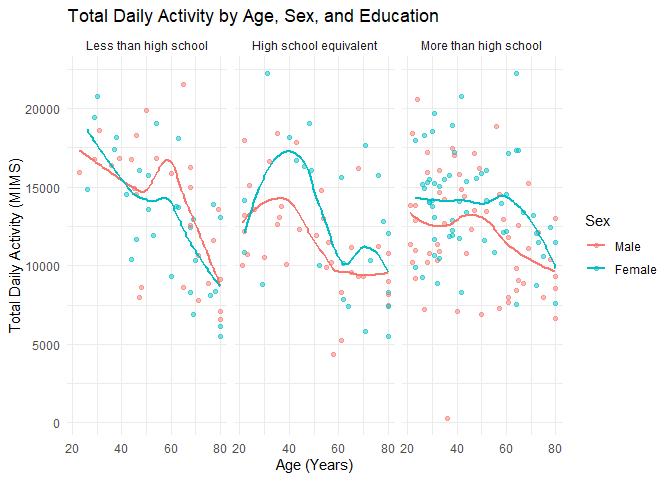
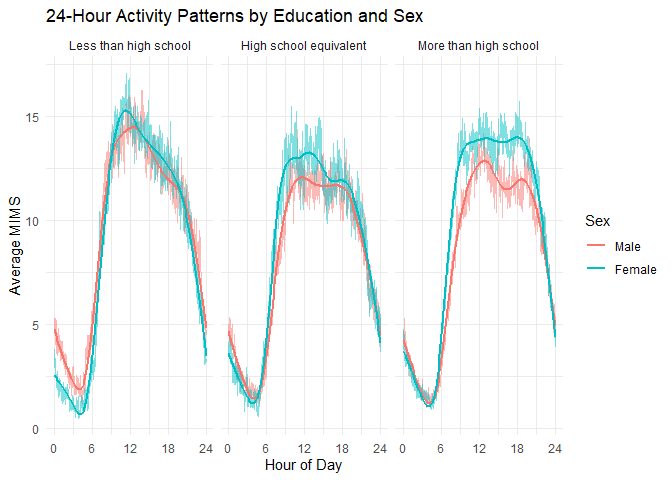
Problem 2: Complete problem, make plots & interpret

diff --git a/p8105_hw3_wy2486.md b/p8105_hw3_wy2486.md
@@ -302,3 +302,208 @@ nhanes_tidy_df = nhanes_df |>
     minute = as.numeric(minute)
   )
 ```
+
+### Demographic Characteristics
+
+First, I created a table showing the number of men and women in each
+education category. I used `distinct()` to ensure that each participant
+was counted only once.
+
+``` r
+nhanes_tidy_df |>
+  distinct(seqn, sex, education) |>
+  count(education, sex) |>
+  pivot_wider(
+    names_from = sex,
+    values_from = n
+  ) |>
+  knitr::kable(
+    caption = "Number of Participants by Education and Sex"
+  )
+```
+
+| education              | Male | Female |
+|:-----------------------|-----:|-------:|
+| Less than high school  |   27 |     28 |
+| High school equivalent |   35 |     23 |
+| More than high school  |   56 |     59 |
+
+Number of Participants by Education and Sex
+
+**Observations and Interpretations:**
+
+Participants with more than a high school education form the largest
+group (115), followed by high school equivalent (58) and less than high
+school (55). The number of men and women is relatively balanced, except
+in the high school equivalent group, where men (35) outnumber women
+(23).
+
+### Age Distribution by Sex and Education
+
+Next, I created density plots to compare the age distributions of men
+and women across education levels.
+
+``` r
+nhanes_tidy_df |>
+  distinct(seqn, sex, age, education) |>
+  ggplot(aes(x = age, fill = sex)) +
+  geom_density(alpha = 0.4) +
+  facet_grid(. ~ education) +
+  labs(
+    title = "Age Distribution by Sex and Education",
+    x = "Age (Years)",
+    y = "Density",
+    fill = "Sex"
+  ) +
+  theme_minimal()
+```
+
+![](p8105_hw3_wy2486_files/figure-gfm/unnamed-chunk-8-1.png)<!-- -->
+**Observation and Interpretation:**
+
+1.  **Less than high school:** Men and women have relatively similar age
+    distributions, with both showing higher densities around ages 65–75.
+    Men also have a smaller peak around their 40s, while women have a
+    dip around their 50s.
+
+2.  **High school equivalent:** The distributions fluctuate. Men show
+    peaks around ages 30 and 60, while women have a more pronounced peak
+    around age 70.
+
+3.  **More than high school:** Both sexes have relatively high densities
+    at younger ages, particularly women around age 30. The density
+    generally decreases toward older ages, although there is a smaller
+    increase around age 60.
+
+Overall, age distributions vary across the three education categories.
+Participants with less than a high school education tend to have higher
+age densities among older adults, while those with more than a high
+school education show higher densities among younger adults. The high
+school equivalent group shows more fluctuations, with some differences
+between men and women. However, the age distributions overlap
+considerably across all three education categories
+
+### Total Daily Activity by Age
+
+I calculated total daily activity by summing the minute-level MIMS
+measurements for each participant using `group_by()` and `summarize()`.
+
+``` r
+nhanes_total_df = nhanes_tidy_df |>
+  group_by(seqn, sex, age, bmi, education) |>
+  summarize(
+    total_activity = sum(mims, na.rm = TRUE),
+    .groups = "drop"
+  )
+```
+
+I plotted total activity against age, using color to distinguish men and
+women and separate panels for each education category. Smooth trend
+lines were added to examine differences in activity patterns by age.
+
+``` r
+nhanes_total_df |>
+  ggplot(aes(x = age, y = total_activity, color = sex)) +
+  geom_point(alpha = 0.5) +
+  geom_smooth(se = FALSE) +
+  facet_grid(. ~ education) +
+  labs(
+    title = "Total Daily Activity by Age, Sex, and Education",
+    x = "Age (Years)",
+    y = "Total Daily Activity (MIMS)",
+    color = "Sex"
+  ) +
+  theme_minimal()
+```
+
+![](p8105_hw3_wy2486_files/figure-gfm/unnamed-chunk-10-1.png)<!-- -->
+**Observations and Interpretations:**
+
+1.  **Less than high school:** Total daily activity generally decreases
+    with age for both men and women. Men show a noticeable increase
+    around age 60 before declining, while women’s activity decreases
+    more steadily after age 50.
+
+2.  **High school equivalent:** Total daily activity initially
+    increases, peaking around ages 35–40, particularly among women.
+    Activity then generally decreases with age, although some
+    fluctuations are observed around ages 60–70.
+
+3.  **More than high school:** Total daily activity remains relatively
+    stable during early and middle adulthood, with slight fluctuations.
+    Women show a small increase around age 60, while men show a slight
+    increase around ages 50–60. Both groups show decreasing activity in
+    older adulthood.
+
+Overall, total daily activity generally declines with age, particularly
+among older participants. Although the patterns differ somewhat across
+education categories, there is no clear, consistent difference between
+men and women across all ages and education levels.One potential outlier
+is observed among men with more than a high school education, where a
+participant around age 30 has total daily activity close to zero.
+
+### 24-Hour Activity Patterns
+
+I calculated the average MIMS value for each minute of the day, grouped
+by sex and education level. I then plotted the mean activity patterns
+over 24 hours.
+
+``` r
+nhanes_time_df = nhanes_tidy_df |>
+  group_by(education, sex, minute) |>
+  summarize(
+    mean_mims = mean(mims, na.rm = TRUE),
+    .groups = "drop"
+  ) |>
+  mutate(
+    hour = (minute - 1) / 60
+  )
+
+nhanes_time_df |>
+  ggplot(aes(x = hour, y = mean_mims, color = sex)) +
+  geom_line(alpha = 0.5) +
+  geom_smooth(se = FALSE) +
+  facet_grid(. ~ education) +
+  labs(
+    title = "24-Hour Activity Patterns by Education and Sex",
+    x = "Hour of Day",
+    y = "Average MIMS",
+    color = "Sex"
+  ) +
+  scale_x_continuous(
+    breaks = c(0, 6, 12, 18, 24)
+  ) +
+  theme_minimal()
+```
+
+![](p8105_hw3_wy2486_files/figure-gfm/unnamed-chunk-11-1.png)<!-- -->
+
+**Observations and Interpretations:**
+
+1.  **Less than high school:** Men and women show similar activity
+    patterns throughout the day. Average MIMS is lowest between midnight
+    and approximately 6 AM, then increases sharply in the morning and
+    peaks around 12 PM. Activity gradually decreases throughout the
+    afternoon and evening, with a sharper decline toward midnight.
+
+2.  **High school equivalent:** Men and women also show similar daily
+    activity patterns. Average MIMS is lowest during the early morning
+    hours, increases after approximately 6 AM, and reaches higher levels
+    between 10 AM and 6 PM before declining in the evening. Women
+    generally have slightly higher activity levels than men during the
+    daytime.
+
+3.  **More than high school:** Both men and women follow similar
+    patterns, with low activity overnight and a sharp increase in the
+    morning. Activity remains relatively high between 10 AM and 7 PM
+    before decreasing toward midnight. Women generally have higher
+    average MIMS than men during the daytime.
+
+Overall, the three education categories show similar 24-hour activity
+patterns, with low activity overnight, increasing activity in the
+morning, and higher activity during the daytime before declining at
+night. However, participants with a high school equivalent education
+generally show lower average MIMS levels during the daytime compared
+with the other two education groups. Women also tend to have slightly
+higher daytime activity than men, particularly in the high school
+equivalent and more than high school groups.
